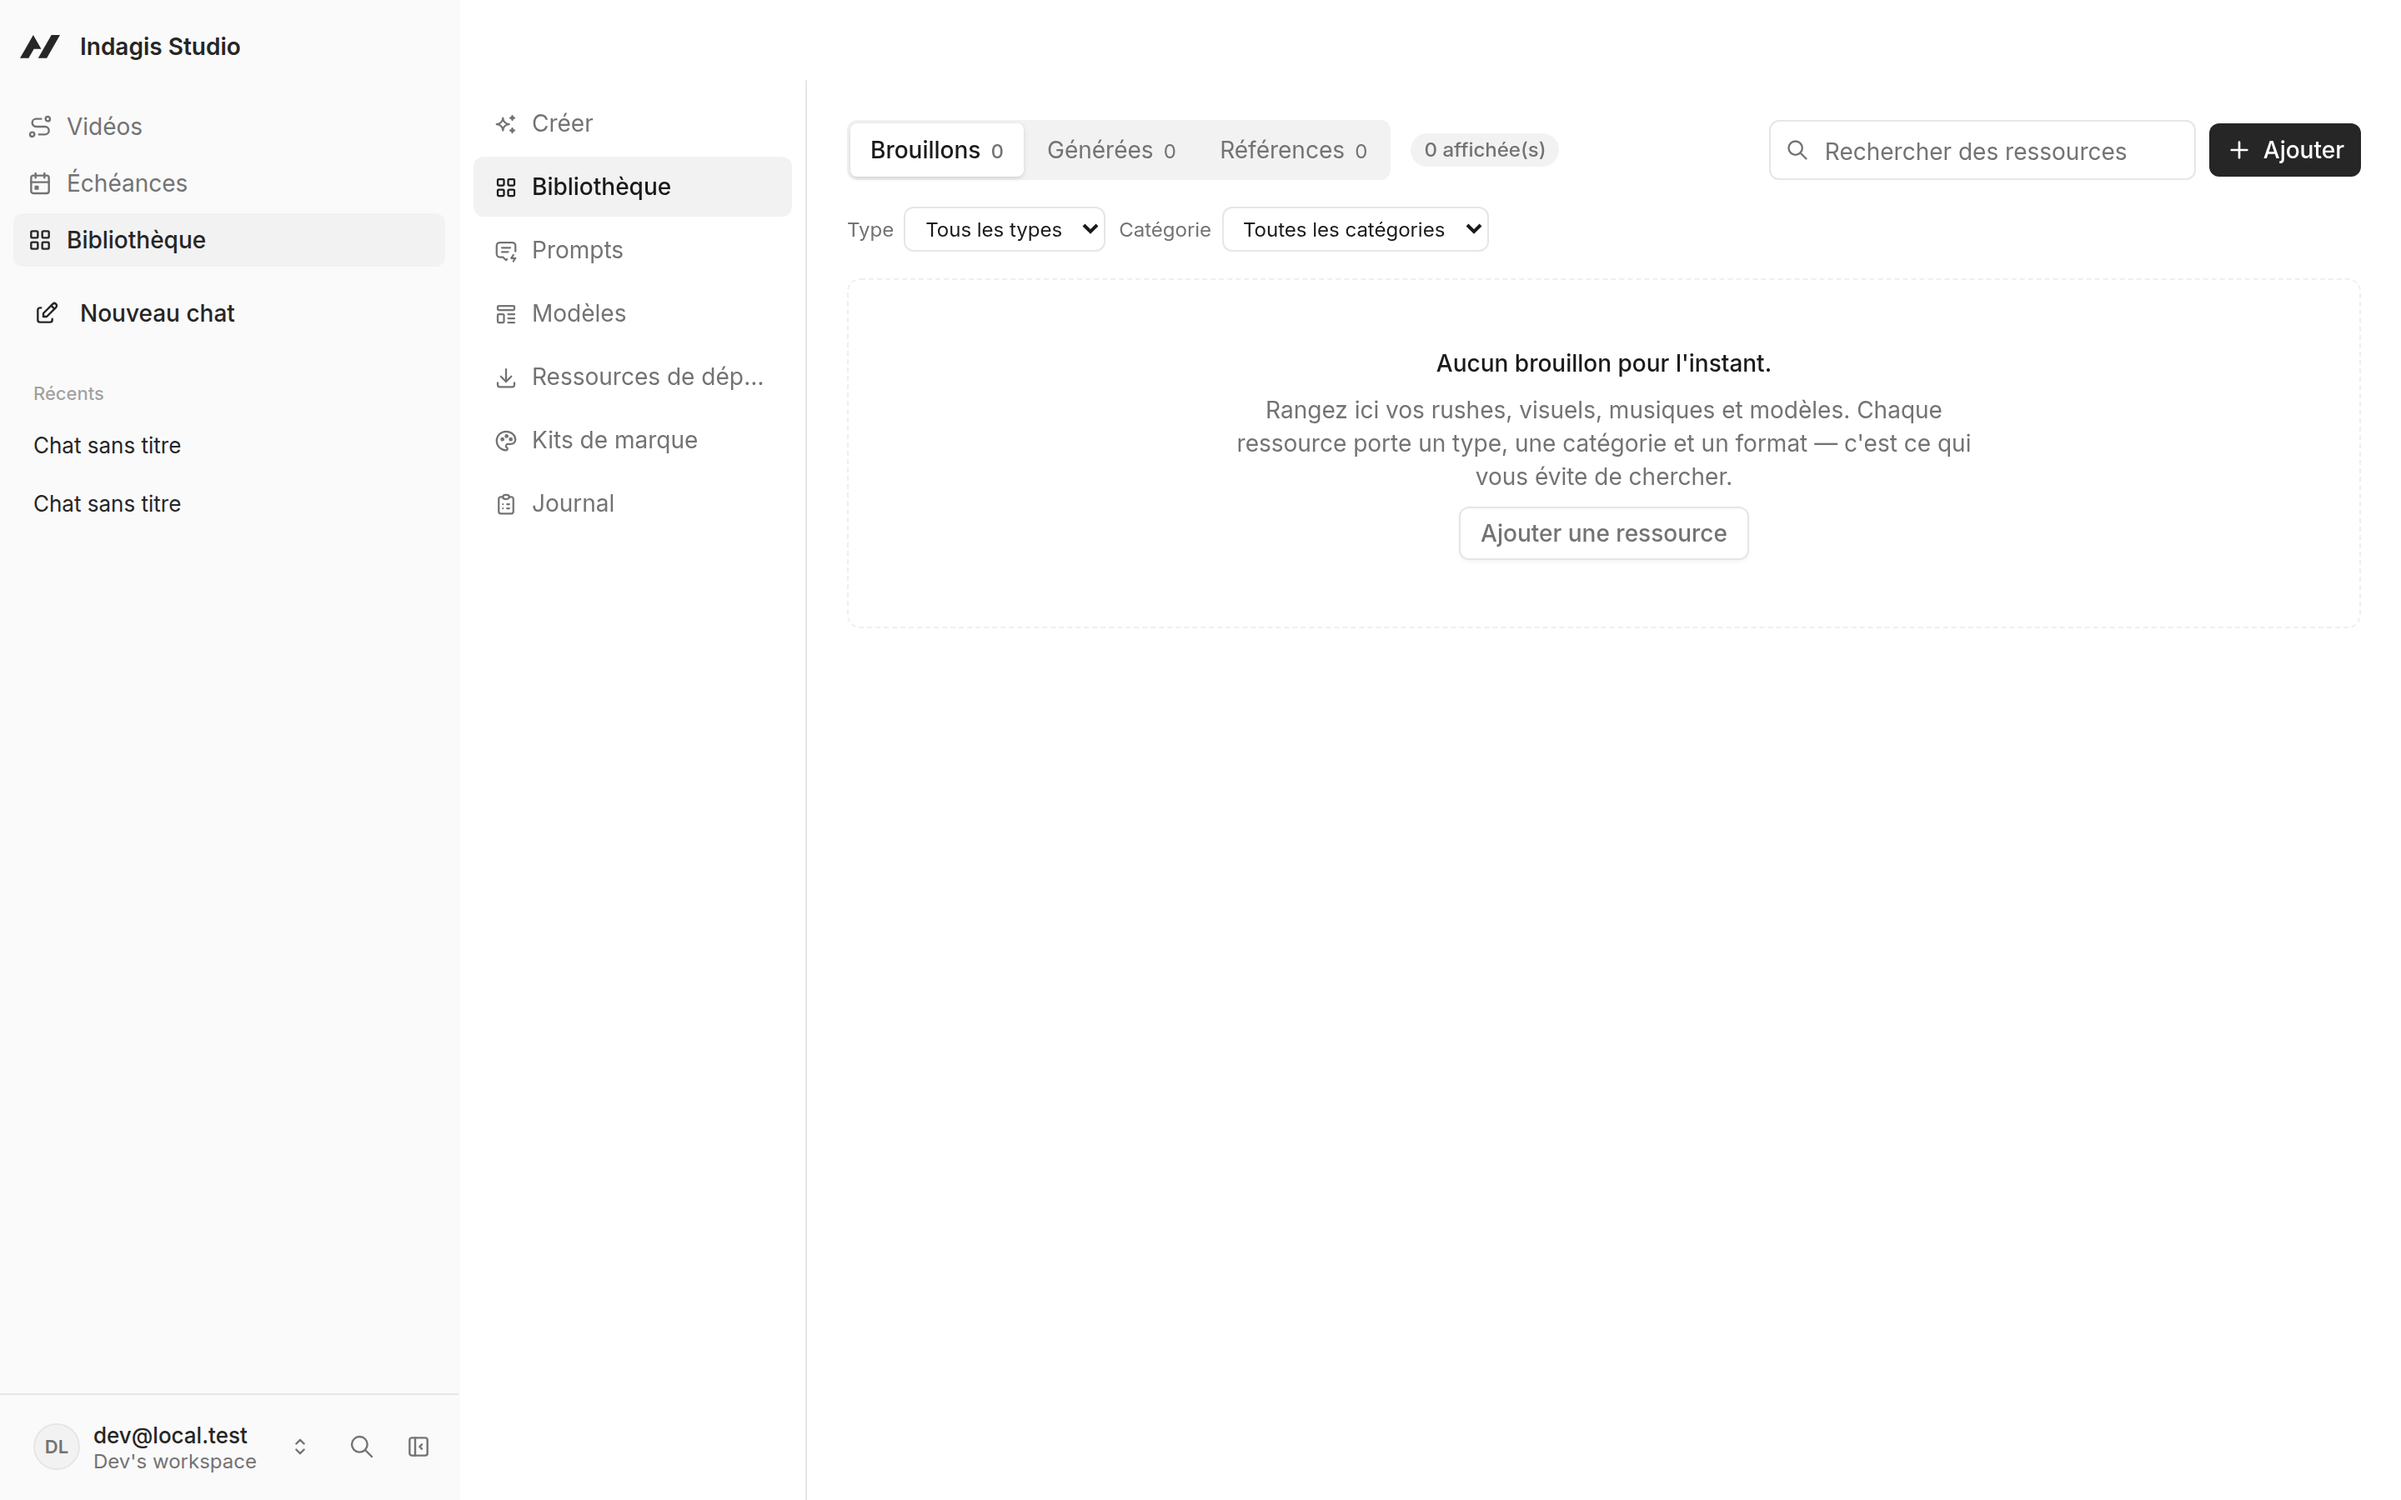
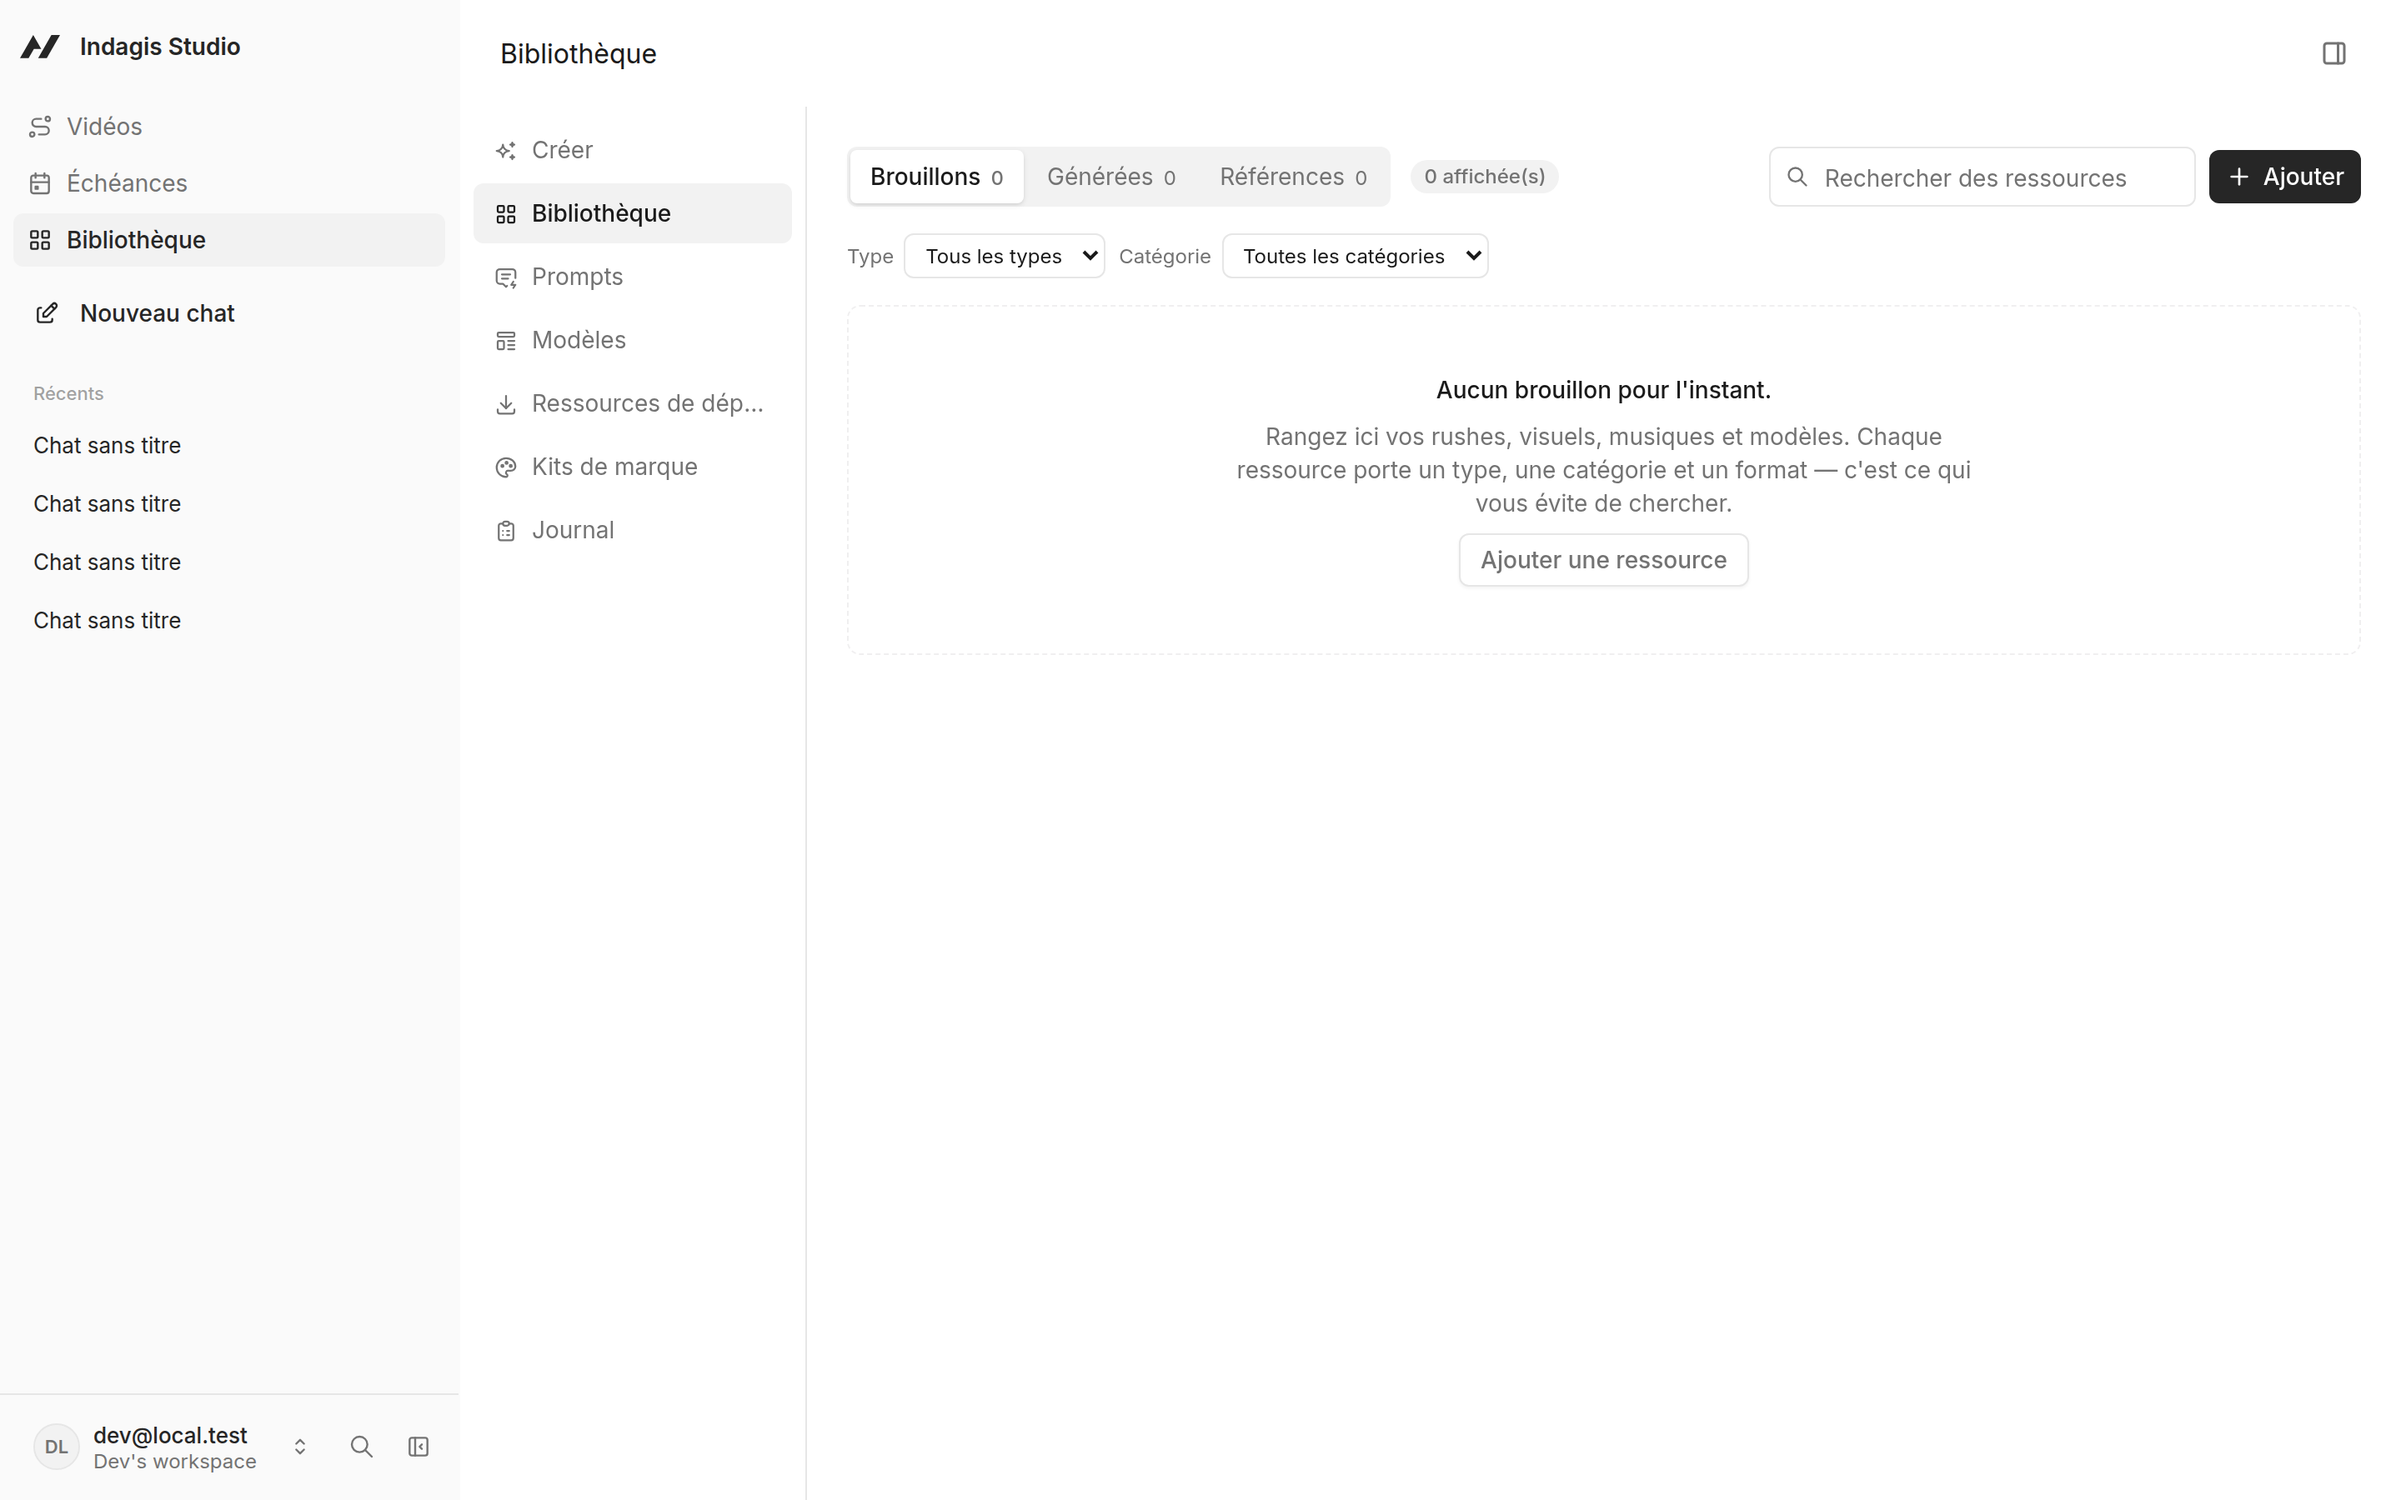
docs: les captures montrent les trois exports, et le README les annonce
Les cinq images dataient d'avant les boutons EDL et chapitres YouTube. Une capture
qui ment sur l'état du produit est pire que pas de capture.

diff --git a/README.md b/README.md
@@ -22,7 +22,8 @@ du récit et les timecodes réels des rushes.*
   et l'exercice de la méthode.
 - **Un carnet de marqueurs** — vos passages repérés, avec leurs timecodes réels, que vous
   pouvez réordonner selon la logique du récit et non celle de la chronologie. Exportable
-  en CSV.
+  en CSV, en **EDL d'assemblage** à importer dans Resolve ou Premiere, et en chapitres
+  YouTube.
 - **Une fiche de préparation** — les cinq questions à se poser avant de monter.
 - **Un diagnostic de structure** — douze règles appliquées mécaniquement à votre carte :
   acte sous-couvert, climax sans enjeu lisible, fin déconnectée, courbe plate…
